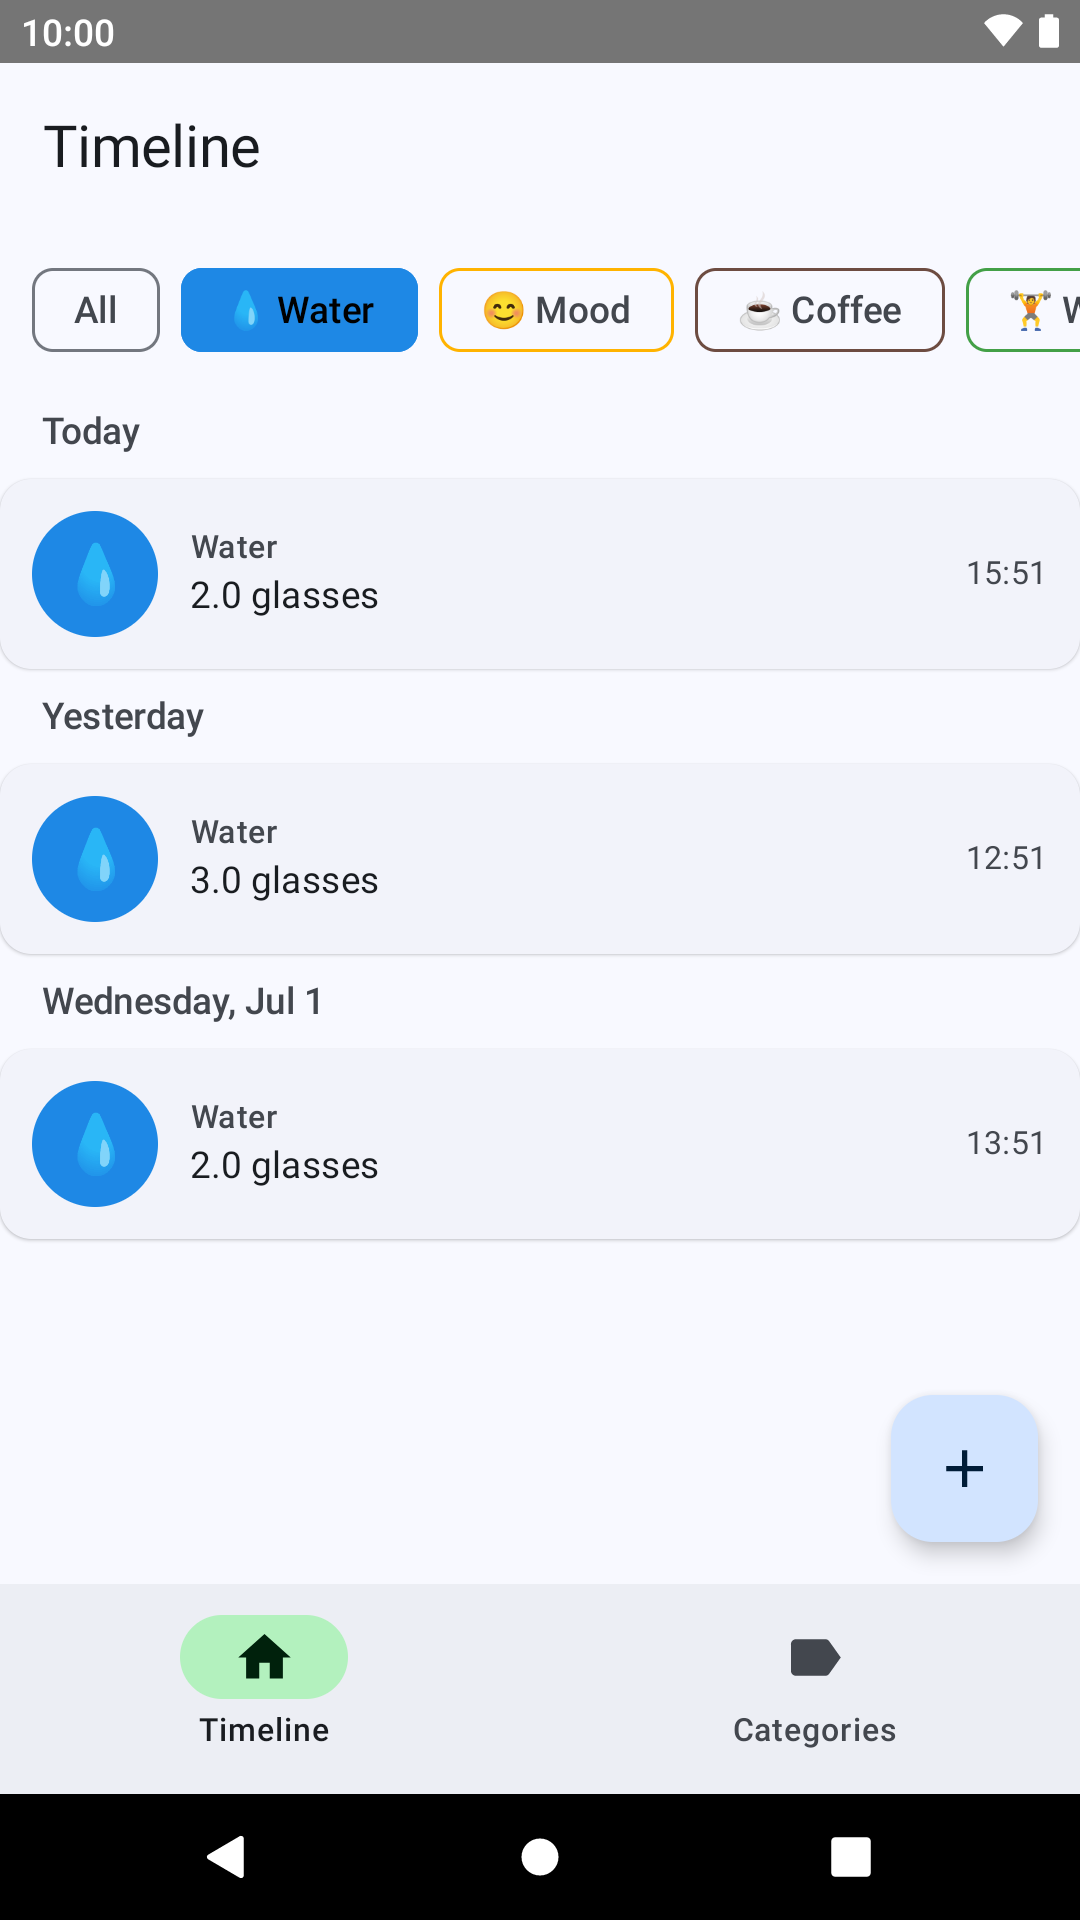
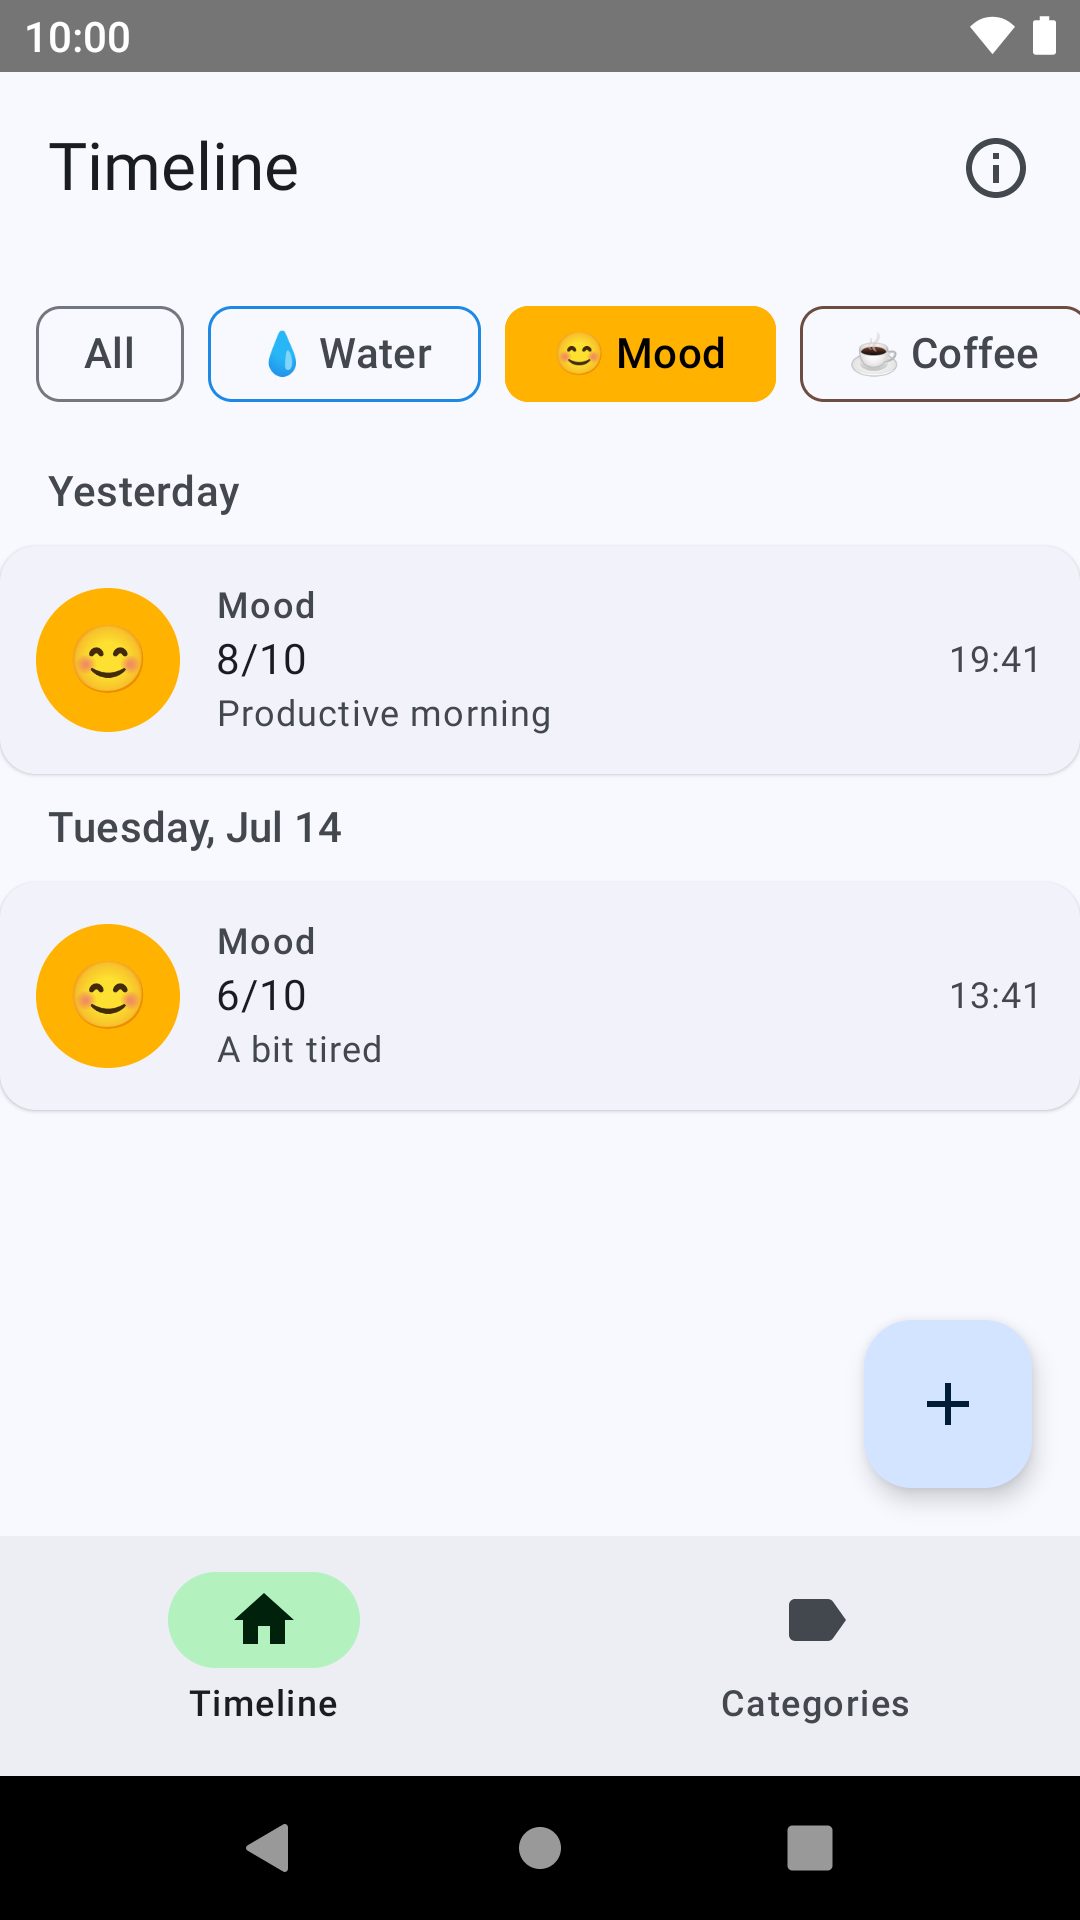
Retake store screenshots and add an About shot (phone + 7" tablet)
Refresh all Play Store screenshots against the current UI (info icon in the top
bars, the full-width "+ New category" tile in the quick-log picker) and add a
fifth shot of the branded About screen, for both the Screenshot_Phone and
7" tablet AVDs.

Also record the About shot in the demo-data skill's example flow and the
screenshots.sh comment, plus a note on driving the UI (match filter chips by
"<emoji> <name>", and repeat the pass per device via SERIAL=...).

diff --git a/.claude/skills/demo-data/SKILL.md b/.claude/skills/demo-data/SKILL.md
@@ -95,17 +95,26 @@ each screen:
 ./screenshots.sh shot shot-03-quicklog.png
 #   ...back to timeline, tap a filter chip...
 ./screenshots.sh shot shot-04-filtered.png
+#   ...back to timeline, tap the About (info) icon in the top bar...
+./screenshots.sh shot shot-05-about.png
 ./screenshots.sh demo off
 ```
 
 Shots land in `docs/store-listing/screenshots/`. Navigation between calls is
 manual on purpose — scripting it would need hardcoded `input tap` coordinates,
 which shift with AVD density. Read `screenshots.sh` for the exact adb commands
-each subcommand runs.
+each subcommand runs. (Tip for driving the UI: `adb shell uiautomator dump` then
+tap the element's bounds center — but note the filter chips render as
+"<emoji> <name>", so match the chip by that, not the bare category name which
+also appears on event rows.)
 
 Suggested shots (the demo data is built to show these off): timeline (hero),
-quick-log sheet, category list, filtered-by-chip timeline, and optionally an
-event detail/edit and the category value-type picker.
+quick-log sheet (shows the colorful picker + "+ New category" tile), category
+list, filtered-by-chip timeline, the About screen (branded hero), and optionally
+an event detail/edit and the category value-type picker.
+
+Repeat the whole pass per device — the phone (`Screenshot_Phone`, `shot-*.png`)
+and the 7" tablet (`7_inch_Tablet_API_30`, `tablet7-*.png`) — via `SERIAL=...`.
 
 ## Snapshot an existing install (reverse direction)
 
